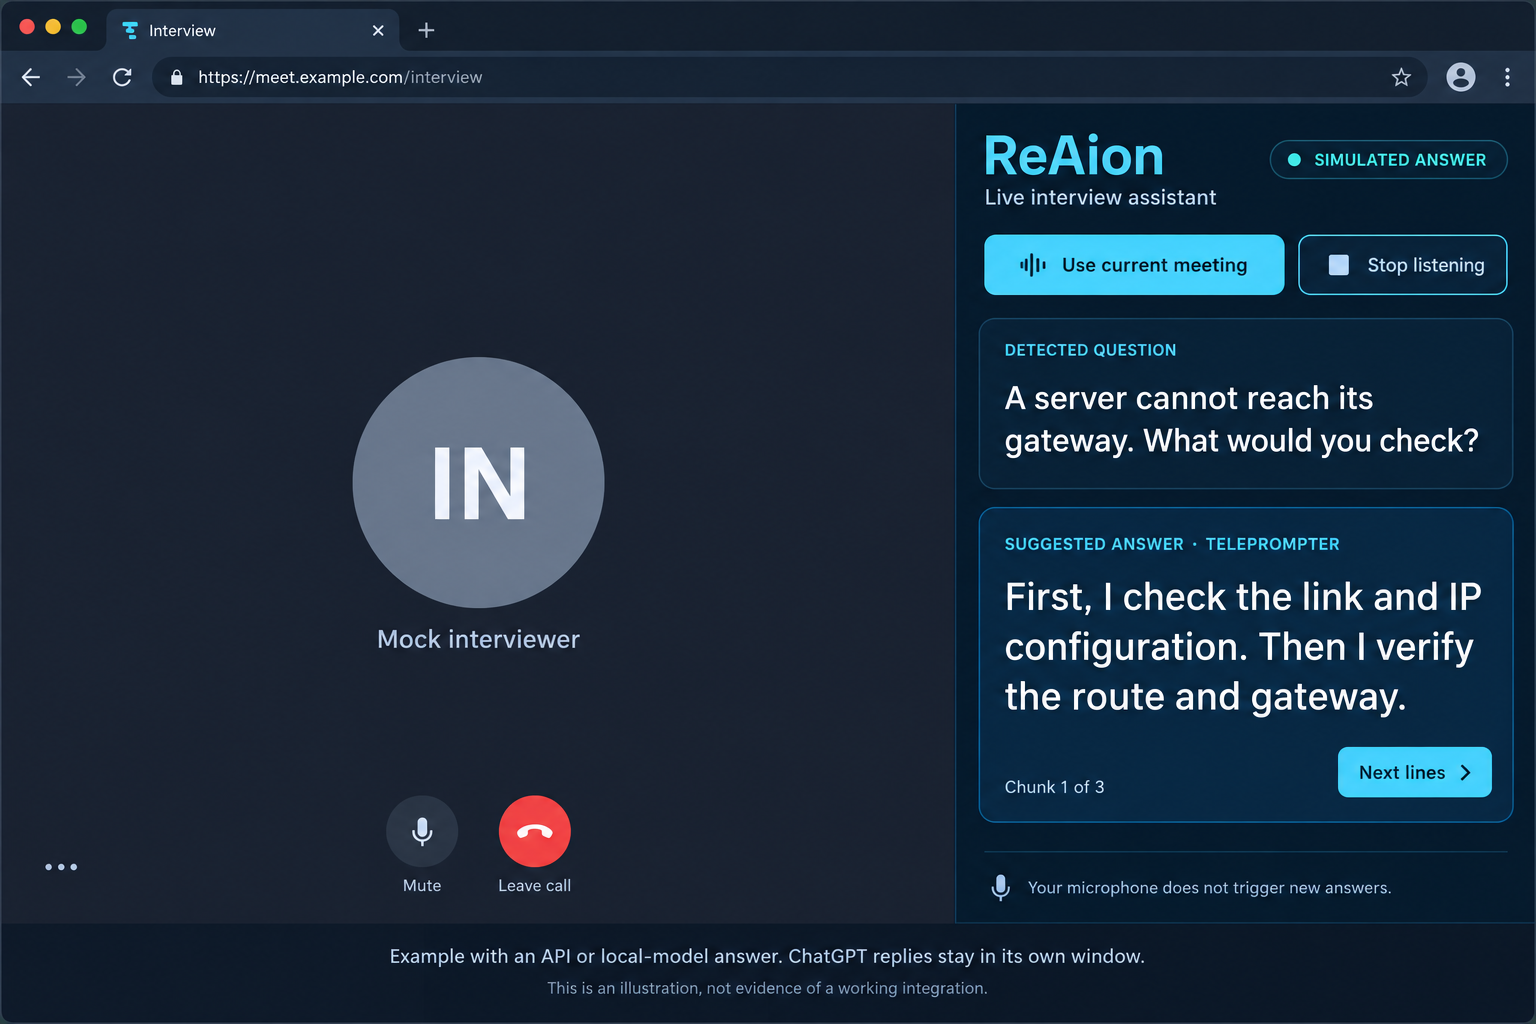
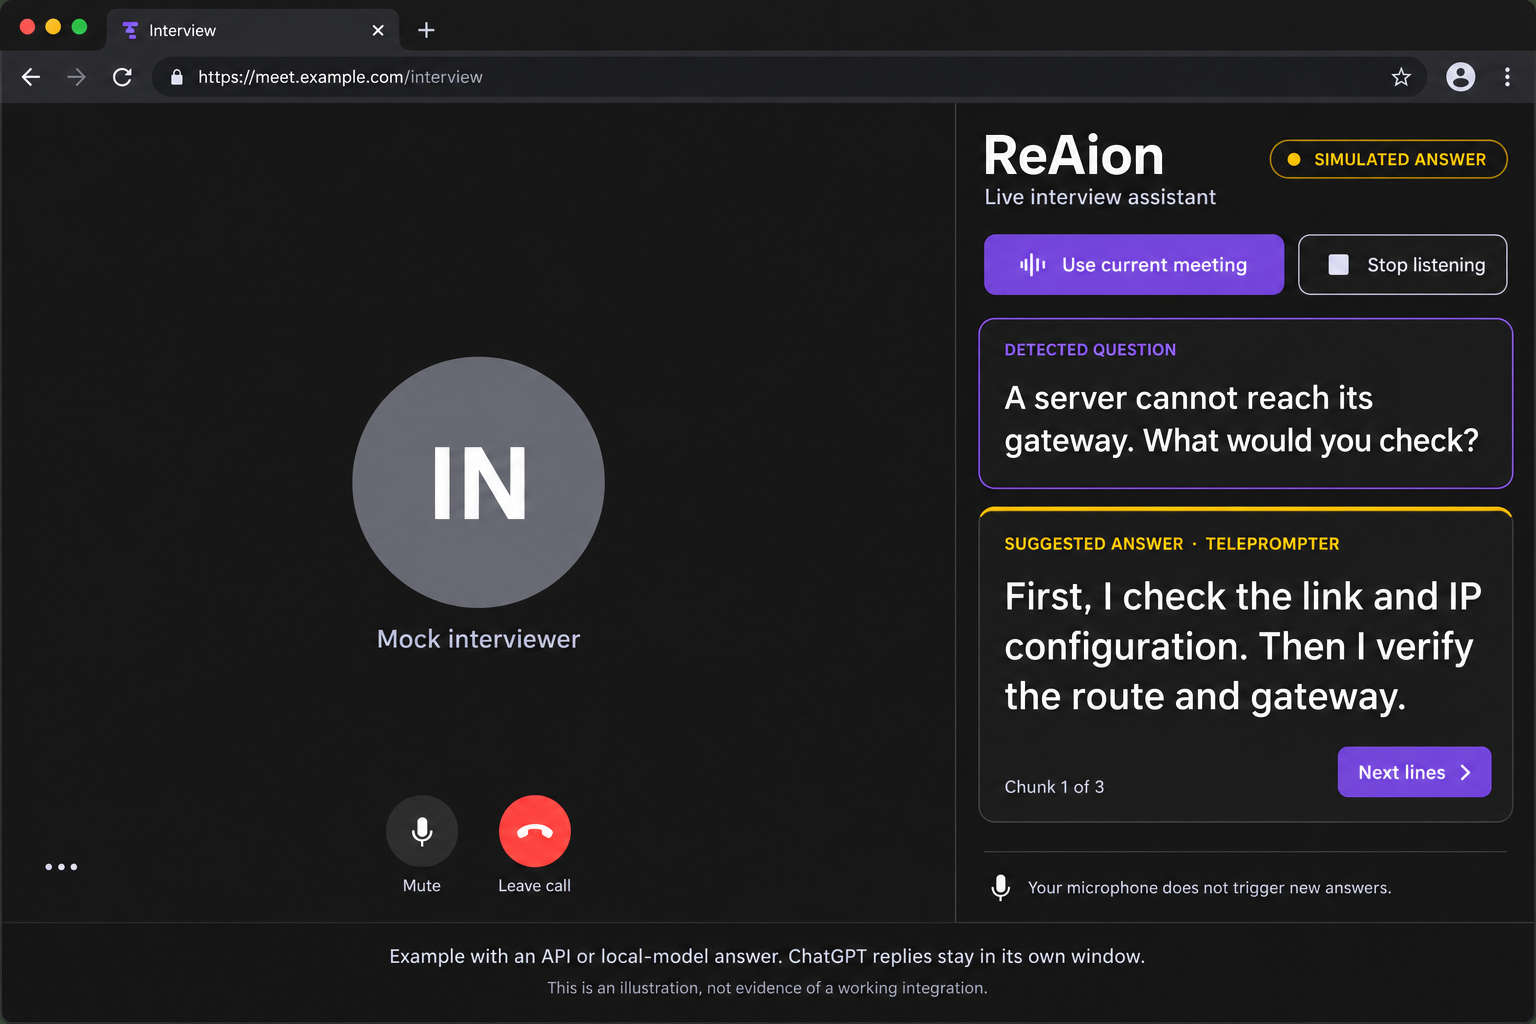
Apply charcoal violet and amber theme across ReAion UI

diff --git a/ReAion/chrome_extension/sidepanel.css b/ReAion/chrome_extension/sidepanel.css
@@ -1,1 +1,33 @@
-*{box-sizing:border-box}body{margin:0;padding:16px;background:#071b2c;color:#eaf7ff;font:14px Segoe UI,Arial,sans-serif}header{display:flex;align-items:center;gap:10px;border-bottom:1px solid #16445c;padding-bottom:14px}.logo{font-size:30px;color:#1de0dc}h1{font-size:16px;margin:0;letter-spacing:1px}p{margin:3px 0;color:#8fb4c5;font-size:12px}#state{margin-left:auto;color:#4ff0c0;font-size:10px}.steps{display:flex;justify-content:space-between;padding:14px 4px;color:#56e4db;font-size:10px}section{margin-top:14px}label{display:block;color:#69d8e7;font-size:10px;font-weight:700;letter-spacing:1px;margin-bottom:7px}.question,.answer{border:1px solid #15516a;border-radius:12px;background:#0c2a40;padding:15px}.question{font-size:21px;line-height:1.25;font-weight:600}.answer{font-size:22px;line-height:1.45;min-height:250px;color:#f2fbff}.progress{display:flex;justify-content:space-between;align-items:center;margin-top:12px;color:#8fb4c5;font-size:11px}button{background:#17caca;border:0;border-radius:15px;padding:7px 12px;cursor:pointer}footer{position:fixed;bottom:12px;color:#7897a5;font-size:11px}
+:root {
+  color-scheme: dark;
+  --bg: #171717;
+  --surface: #202020;
+  --surface-raised: #292929;
+  --text: #f8f7fb;
+  --muted: #b9b4c2;
+  --violet: #7442cf;
+  --violet-hover: #8655dd;
+  --amber: #ffc400;
+  --border: #3a3a3a;
+}
+
+* { box-sizing: border-box; }
+body { margin: 0; padding: 16px; background: var(--bg); color: var(--text); font: 14px "Segoe UI", Arial, sans-serif; }
+header { display: flex; align-items: center; gap: 10px; border-bottom: 3px solid var(--amber); padding: 4px 0 14px; box-shadow: 0 4px 10px rgb(255 196 0 / 16%); }
+.logo { display: grid; width: 36px; height: 36px; place-items: center; border-radius: 50%; background: var(--violet); color: white; font-size: 23px; }
+h1 { margin: 0; font-size: 18px; letter-spacing: 1px; }
+p { margin: 3px 0; color: var(--muted); font-size: 12px; }
+#state { margin-left: auto; color: var(--amber); font-size: 10px; font-weight: 800; letter-spacing: .06em; }
+.steps { display: flex; justify-content: space-between; padding: 14px 4px; color: var(--muted); font-size: 10px; }
+.steps b:first-child, .steps b:last-child { color: var(--amber); }
+section { margin-top: 14px; }
+label { display: block; margin-bottom: 7px; color: var(--amber); font-size: 10px; font-weight: 800; letter-spacing: 1px; }
+.question, .answer { border: 1px solid var(--border); border-radius: 12px; background: var(--surface); padding: 15px; }
+.question { border-left: 4px solid var(--violet); font-size: 21px; font-weight: 650; line-height: 1.3; }
+.answer { min-height: 250px; border-top: 4px solid var(--amber); color: var(--text); font-size: 22px; line-height: 1.45; box-shadow: 0 6px 18px rgb(0 0 0 / 24%); }
+.progress { display: flex; align-items: center; justify-content: space-between; margin-top: 12px; color: var(--muted); font-size: 11px; }
+button { border: 0; border-radius: 18px; background: var(--violet); color: white; padding: 8px 13px; font-weight: 700; cursor: pointer; }
+button:hover { background: var(--violet-hover); }
+button:focus-visible { outline: 3px solid var(--amber); outline-offset: 2px; }
+#stop { border: 1px solid #5a5a5a; background: var(--surface-raised); }
+footer { position: fixed; bottom: 12px; color: var(--muted); font-size: 11px; }

diff --git a/ReAion/chrome_extension/sidepanel.html b/ReAion/chrome_extension/sidepanel.html
@@ -3,7 +3,7 @@
 <body>
 <button id="start">Use current meeting</button> <button id="stop">Stop listening</button>
 <p id="detail" role="status"></p>
-  <header><div class="logo">◈</div><div><h1>ReAion</h1><p>Live interview assistant</p></div><span id="state">CONNECTING</span></header>
+  <header><div class="logo" aria-hidden="true">↑</div><div><h1>ReAion</h1><p>Live interview assistant</p></div><span id="state">CONNECTING</span></header>
   <section class="steps"><b>MEETING</b><b>→</b><b>QUESTION</b><b>→</b><b>ANSWER</b></section>
   <section><label>DETECTED QUESTION</label><div dir="auto" id="question" class="question">Waiting for the interviewer…</div></section>
   <section class="answer"><label>SUGGESTED ANSWER · TELEPROMPTER</label><div dir="auto" id="answer">The answer will appear here automatically.</div><div class="progress"><span id="page">Waiting</span><button id="next">Next line</button></div></section>

diff --git a/ReAion/interview_assistant_gui.py b/ReAion/interview_assistant_gui.py
@@ -2,32 +2,64 @@
 """Desktop view over the same live state used by the Chrome side panel."""
 import threading
 import tkinter as tk
-from tkinter import ttk
+
 from live_session import run
 from app_paths import private_path
 from runtime_state import read_state, request_next
+
+
+COLORS = {
+    "bg": "#171717",
+    "surface": "#202020",
+    "text": "#f8f7fb",
+    "muted": "#b9b4c2",
+    "violet": "#7442cf",
+    "violet_hover": "#8655dd",
+    "amber": "#ffc400",
+}
+
 
 class App:
     def __init__(self, root):
         self.root = root
         self.stop = threading.Event()
-        root.title('ReAion')
-        root.geometry('600x760')
+        root.title("ReAion")
+        root.geometry("600x760")
         root.minsize(380, 500)
-        frame = ttk.Frame(root, padding=20)
-        frame.pack(fill='both', expand=True)
+        root.configure(bg=COLORS["bg"])
+
+        frame = tk.Frame(root, bg=COLORS["bg"], padx=20, pady=20)
+        frame.pack(fill="both", expand=True)
+        header = tk.Frame(frame, bg=COLORS["bg"])
+        header.pack(fill="x", pady=(0, 4))
+        tk.Label(header, text="↑", bg=COLORS["violet"], fg="white", font=("Segoe UI", 18, "bold"), width=2, pady=4).pack(side="left", padx=(0, 10))
+        title = tk.Frame(header, bg=COLORS["bg"])
+        title.pack(side="left")
+        tk.Label(title, text="ReAion", bg=COLORS["bg"], fg=COLORS["text"], font=("Segoe UI", 16, "bold")).pack(anchor="w")
+        tk.Label(title, text="Live interview assistant", bg=COLORS["bg"], fg=COLORS["muted"], font=("Segoe UI", 9)).pack(anchor="w")
         self.status = tk.StringVar()
-        ttk.Label(frame, textvariable=self.status).pack(anchor='w')
+        tk.Label(header, textvariable=self.status, bg=COLORS["bg"], fg=COLORS["amber"], font=("Segoe UI", 9, "bold")).pack(side="right")
+        tk.Frame(frame, bg=COLORS["amber"], height=4).pack(fill="x", pady=(8, 18))
+
+        tk.Label(frame, text="DETECTED QUESTION", bg=COLORS["bg"], fg=COLORS["amber"], font=("Segoe UI", 9, "bold")).pack(anchor="w", pady=(0, 7))
         self.question = tk.StringVar()
-        self.question_label = ttk.Label(frame, textvariable=self.question, font=('Arial', 20, 'bold'), wraplength=540)
-        self.question_label.pack(fill='x', pady=20)
-        self.answer = tk.Text(frame, wrap='word', font=('Arial', 26), height=8, state='disabled')
-        self.answer.pack(fill='both', expand=True)
+        self.question_label = tk.Label(frame, textvariable=self.question, bg=COLORS["surface"], fg=COLORS["text"], font=("Segoe UI", 20, "bold"), wraplength=520, justify="left", anchor="w", padx=16, pady=16, highlightbackground=COLORS["violet"], highlightthickness=2)
+        self.question_label.pack(fill="x", pady=(0, 18))
+
+        tk.Label(frame, text="SUGGESTED ANSWER · TELEPROMPTER", bg=COLORS["bg"], fg=COLORS["amber"], font=("Segoe UI", 9, "bold")).pack(anchor="w", pady=(0, 7))
+        answer_frame = tk.Frame(frame, bg=COLORS["amber"], padx=1, pady=1)
+        answer_frame.pack(fill="both", expand=True)
+        self.answer = tk.Text(answer_frame, wrap="word", font=("Segoe UI", 26), height=8, state="disabled", bg=COLORS["surface"], fg=COLORS["text"], insertbackground=COLORS["text"], relief="flat", padx=16, pady=16)
+        self.answer.pack(fill="both", expand=True, pady=(4, 0))
+
+        controls = tk.Frame(frame, bg=COLORS["bg"])
+        controls.pack(fill="x", pady=(12, 0))
         self.detail = tk.StringVar()
-        ttk.Label(frame, textvariable=self.detail, wraplength=540).pack(fill='x', pady=12)
-        ttk.Button(frame, text='Next lines', command=request_next).pack(anchor='e')
-        frame.bind('<Configure>', lambda e: self.question_label.configure(wraplength=max(300, e.width - 40)))
-        root.protocol('WM_DELETE_WINDOW', self.close)
+        tk.Label(controls, textvariable=self.detail, wraplength=390, justify="left", bg=COLORS["bg"], fg=COLORS["muted"], font=("Segoe UI", 9)).pack(side="left", fill="x", expand=True)
+        tk.Button(controls, text="Next lines  ↑", command=request_next, bg=COLORS["violet"], activebackground=COLORS["violet_hover"], fg="white", activeforeground="white", font=("Segoe UI", 10, "bold"), relief="flat", padx=16, pady=8, cursor="hand2").pack(side="right")
+
+        frame.bind("<Configure>", lambda e: self.question_label.configure(wraplength=max(300, e.width - 72)))
+        root.protocol("WM_DELETE_WINDOW", self.close)
         self.worker = threading.Thread(target=run, args=(self.stop,), daemon=True)
         self.worker.start()
         self.previous = None
@@ -35,23 +67,25 @@ class App:
 
     def poll(self):
         if private_path("stop_assistant").exists():
-            self.close(); return
+            self.close()
+            return
         data = read_state()
-        self.status.set(data.get('state', 'NOT LISTENING') + '  ' + data.get('progress', ''))
-        self.question.set(data.get('question', ''))
-        answer = data.get('answer', '')
+        self.status.set(data.get("state", "NOT LISTENING") + "  " + data.get("progress", ""))
+        self.question.set(data.get("question", ""))
+        answer = data.get("answer", "")
         if answer != self.previous:
-            self.answer.configure(state='normal')
-            self.answer.delete('1.0', 'end')
-            self.answer.insert('1.0', answer)
-            self.answer.configure(state='disabled')
+            self.answer.configure(state="normal")
+            self.answer.delete("1.0", "end")
+            self.answer.insert("1.0", answer)
+            self.answer.configure(state="disabled")
             self.previous = answer
-        self.detail.set(data.get('detail', '') or data.get('source', ''))
+        self.detail.set(data.get("detail", "") or data.get("source", ""))
         self.root.after(250, self.poll)
 
     def close(self):
         self.stop.set()
         self.root.destroy()
+
 
 def main():
     root = tk.Tk()
@@ -59,4 +93,6 @@ def main():
     root.mainloop()
     return 0
 
-if __name__ == '__main__': main()
+
+if __name__ == "__main__":
+    main()

diff --git a/ReAion/tests/test_extension_assets.py b/ReAion/tests/test_extension_assets.py
@@ -10,4 +10,19 @@ class ExtensionAssetTests(unittest.TestCase):
         self.assertEqual(manifest["side_panel"]["default_path"], "sidepanel.html")
         self.assertTrue((root/"sidepanel.js").exists())
 
+    def test_side_panel_uses_reaion_violet_amber_palette(self):
+        root=Path(__file__).resolve().parents[1]/"chrome_extension"
+        css=(root/"sidepanel.css").read_text()
+        html=(root/"sidepanel.html").read_text()
+        self.assertIn("--violet: #7442cf", css)
+        self.assertIn("--amber: #ffc400", css)
+        self.assertIn("--bg: #171717", css)
+        self.assertIn('class="logo" aria-hidden="true">↑</div>', html)
+
+    def test_desktop_view_matches_browser_palette(self):
+        root=Path(__file__).resolve().parents[1]
+        source=(root/"interview_assistant_gui.py").read_text()
+        for color in ("#171717", "#7442cf", "#ffc400", "#f8f7fb"):
+            self.assertIn(color, source)
+
 if __name__ == "__main__": unittest.main()

diff --git a/README.md b/README.md
@@ -4,6 +4,9 @@
 
 ReAion is an interview-assistant project designed to keep the meeting visible while a side panel shows the interviewer's question and a readable suggested answer. A microphone-following teleprompter presents the answer in short chunks, helping you keep your place while speaking.
 
+The interface uses a charcoal base with violet primary actions and a focused
+amber accent for active status and teleprompter progress.
+
 **Current release: 0.2.0 development source.** The Chrome extension requires a local Python companion. Live meeting audio and signed-in AI automation have not passed an end-to-end test; one-click installation is still planned.
 
 [Developer setup](ReAion/README.md) · [Verified project state](ReAion/PROJECT_STATE.md) · [Roadmap](ReAion/ROADMAP.md)
@@ -83,7 +86,7 @@ For microphone capture and AI setup, follow the [developer installation instruct
 | Windows | Audio, volume, window and launcher integration code exists; native live validation remains. |
 | Linux / macOS | Shared core and platform guards exist; capture, permissions and desktop behavior remain experimental. |
 | Desktop distribution | Optional desktop view and Windows build recipes exist; no tested EXE, DMG or AppImage is supplied. |
-| Automated checks | 40 Python tests, deterministic mock pipeline, Node extension fixtures and Python syntax checks passed in the development environment. |
+| Automated checks | 42 Python tests, deterministic mock pipeline, Node extension fixtures and Python syntax checks passed in the development environment. |
 
 Run component checks from `ReAion/`:
 

diff --git a/ReAion/PROJECT_STATE.md b/ReAion/PROJECT_STATE.md
@@ -1,7 +1,7 @@
-# ReAion project state — 0.2.0 development milestone (2026-09-09)
+# ReAion project state — 0.2.0 development milestone (2026-09-10)
 
 ## Verified now
-- 40 Python unit/regression tests pass in Linux/Python 3.12.
+- 42 Python unit/regression tests pass in Linux/Python 3.12.
 - Deterministic mock_interview.py uses the real segmentation, session controller,
   teleprompter, atomic state writer and HTTP panel endpoint. Synthetic Q&A only.
 - Node runtime fixture verifies selected active-call microphone handling; pre-join
@@ -11,6 +11,9 @@
 - BOM-aware config reads; private profile no longer falls back to shared source files.
 
 ## Changes in this milestone
+- Browser and desktop answer views now share a charcoal, violet and amber visual
+  language, with high-contrast answer text, violet actions and amber active-state
+  emphasis. Static extension tests lock the core palette values.
 - Shared LiveSession pipeline used by desktop view and Chrome side panel.
 - Each complete transcript line is consumed once; partial lines are retained.
 - Candidate speech advances chunks and cannot enter question detection.

diff --git a/ReAion/README.md b/ReAion/README.md
@@ -14,6 +14,9 @@ See the [detailed repository overview](../README.md) for the workflow, answer-en
 
 AI-generated layout mockup with simulated content, not an actual screenshot or proof of live integration. ChatGPT replies stay in its own window; the pictured custom-panel answer applies to engines that return text. Run the mock below to see the actual implemented panel.
 
+The current visual theme uses charcoal surfaces, violet primary actions and an
+amber listening/progress accent, with white high-contrast question and answer text.
+
 ## Test the mock first (no AI account or audio devices)
 
 ```
